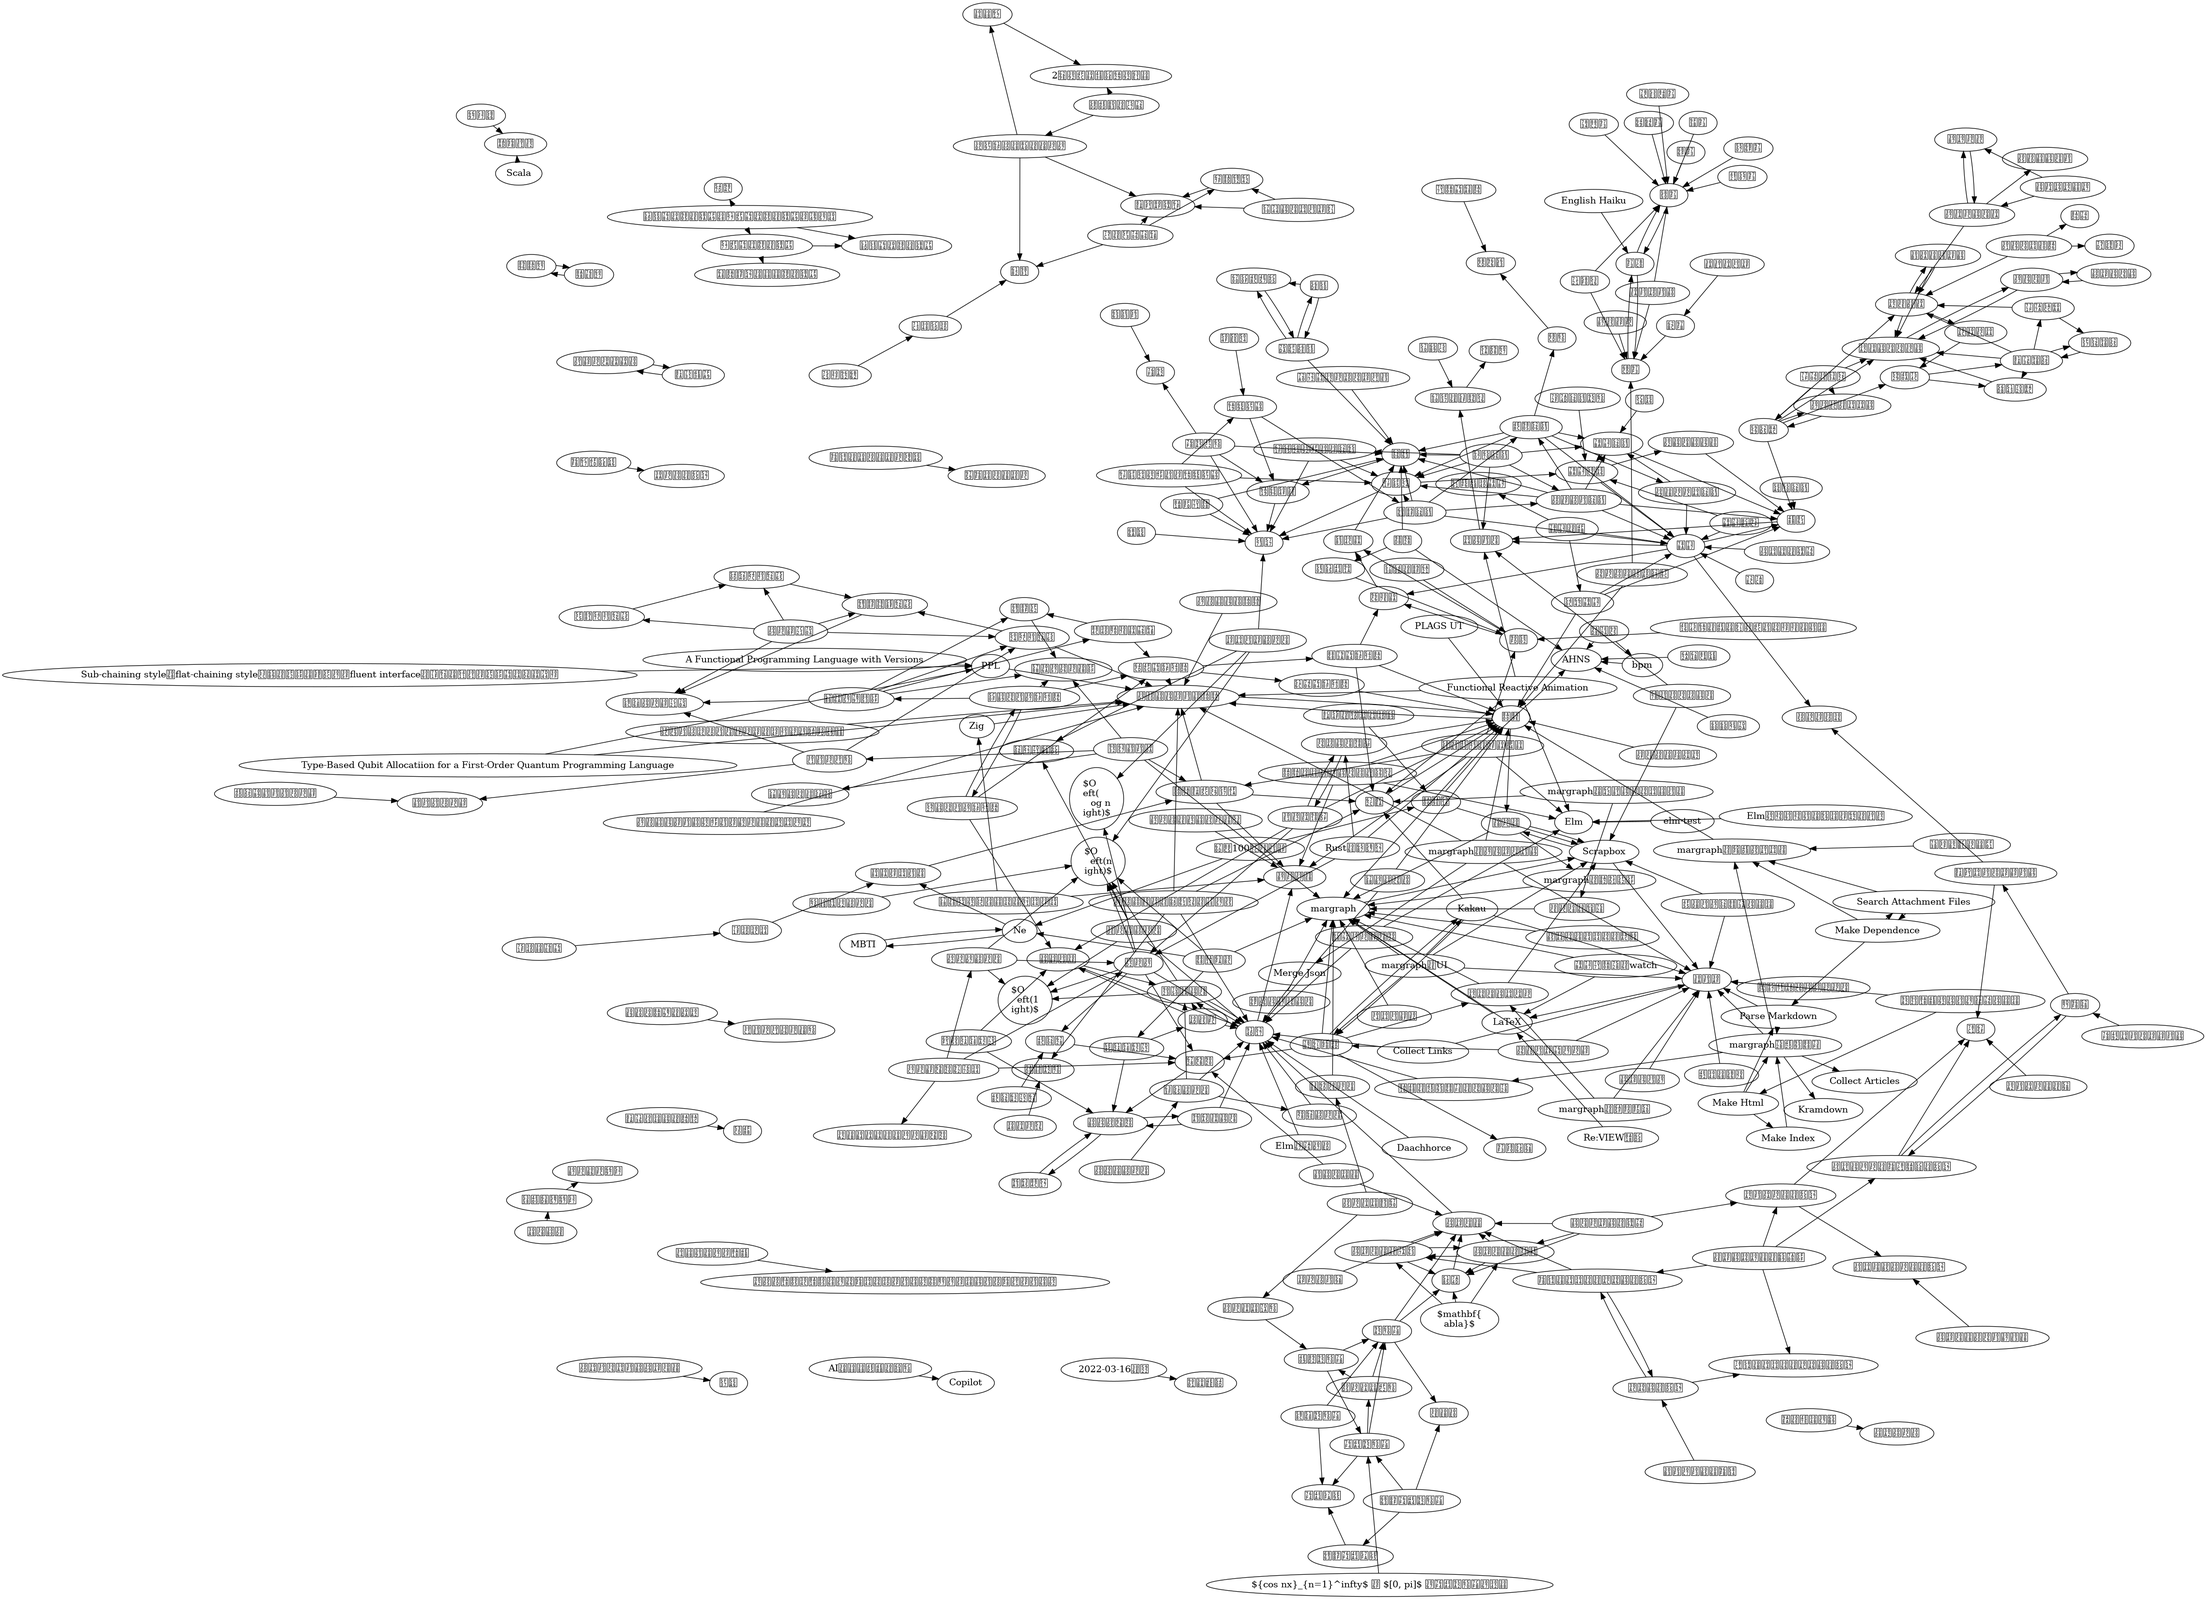
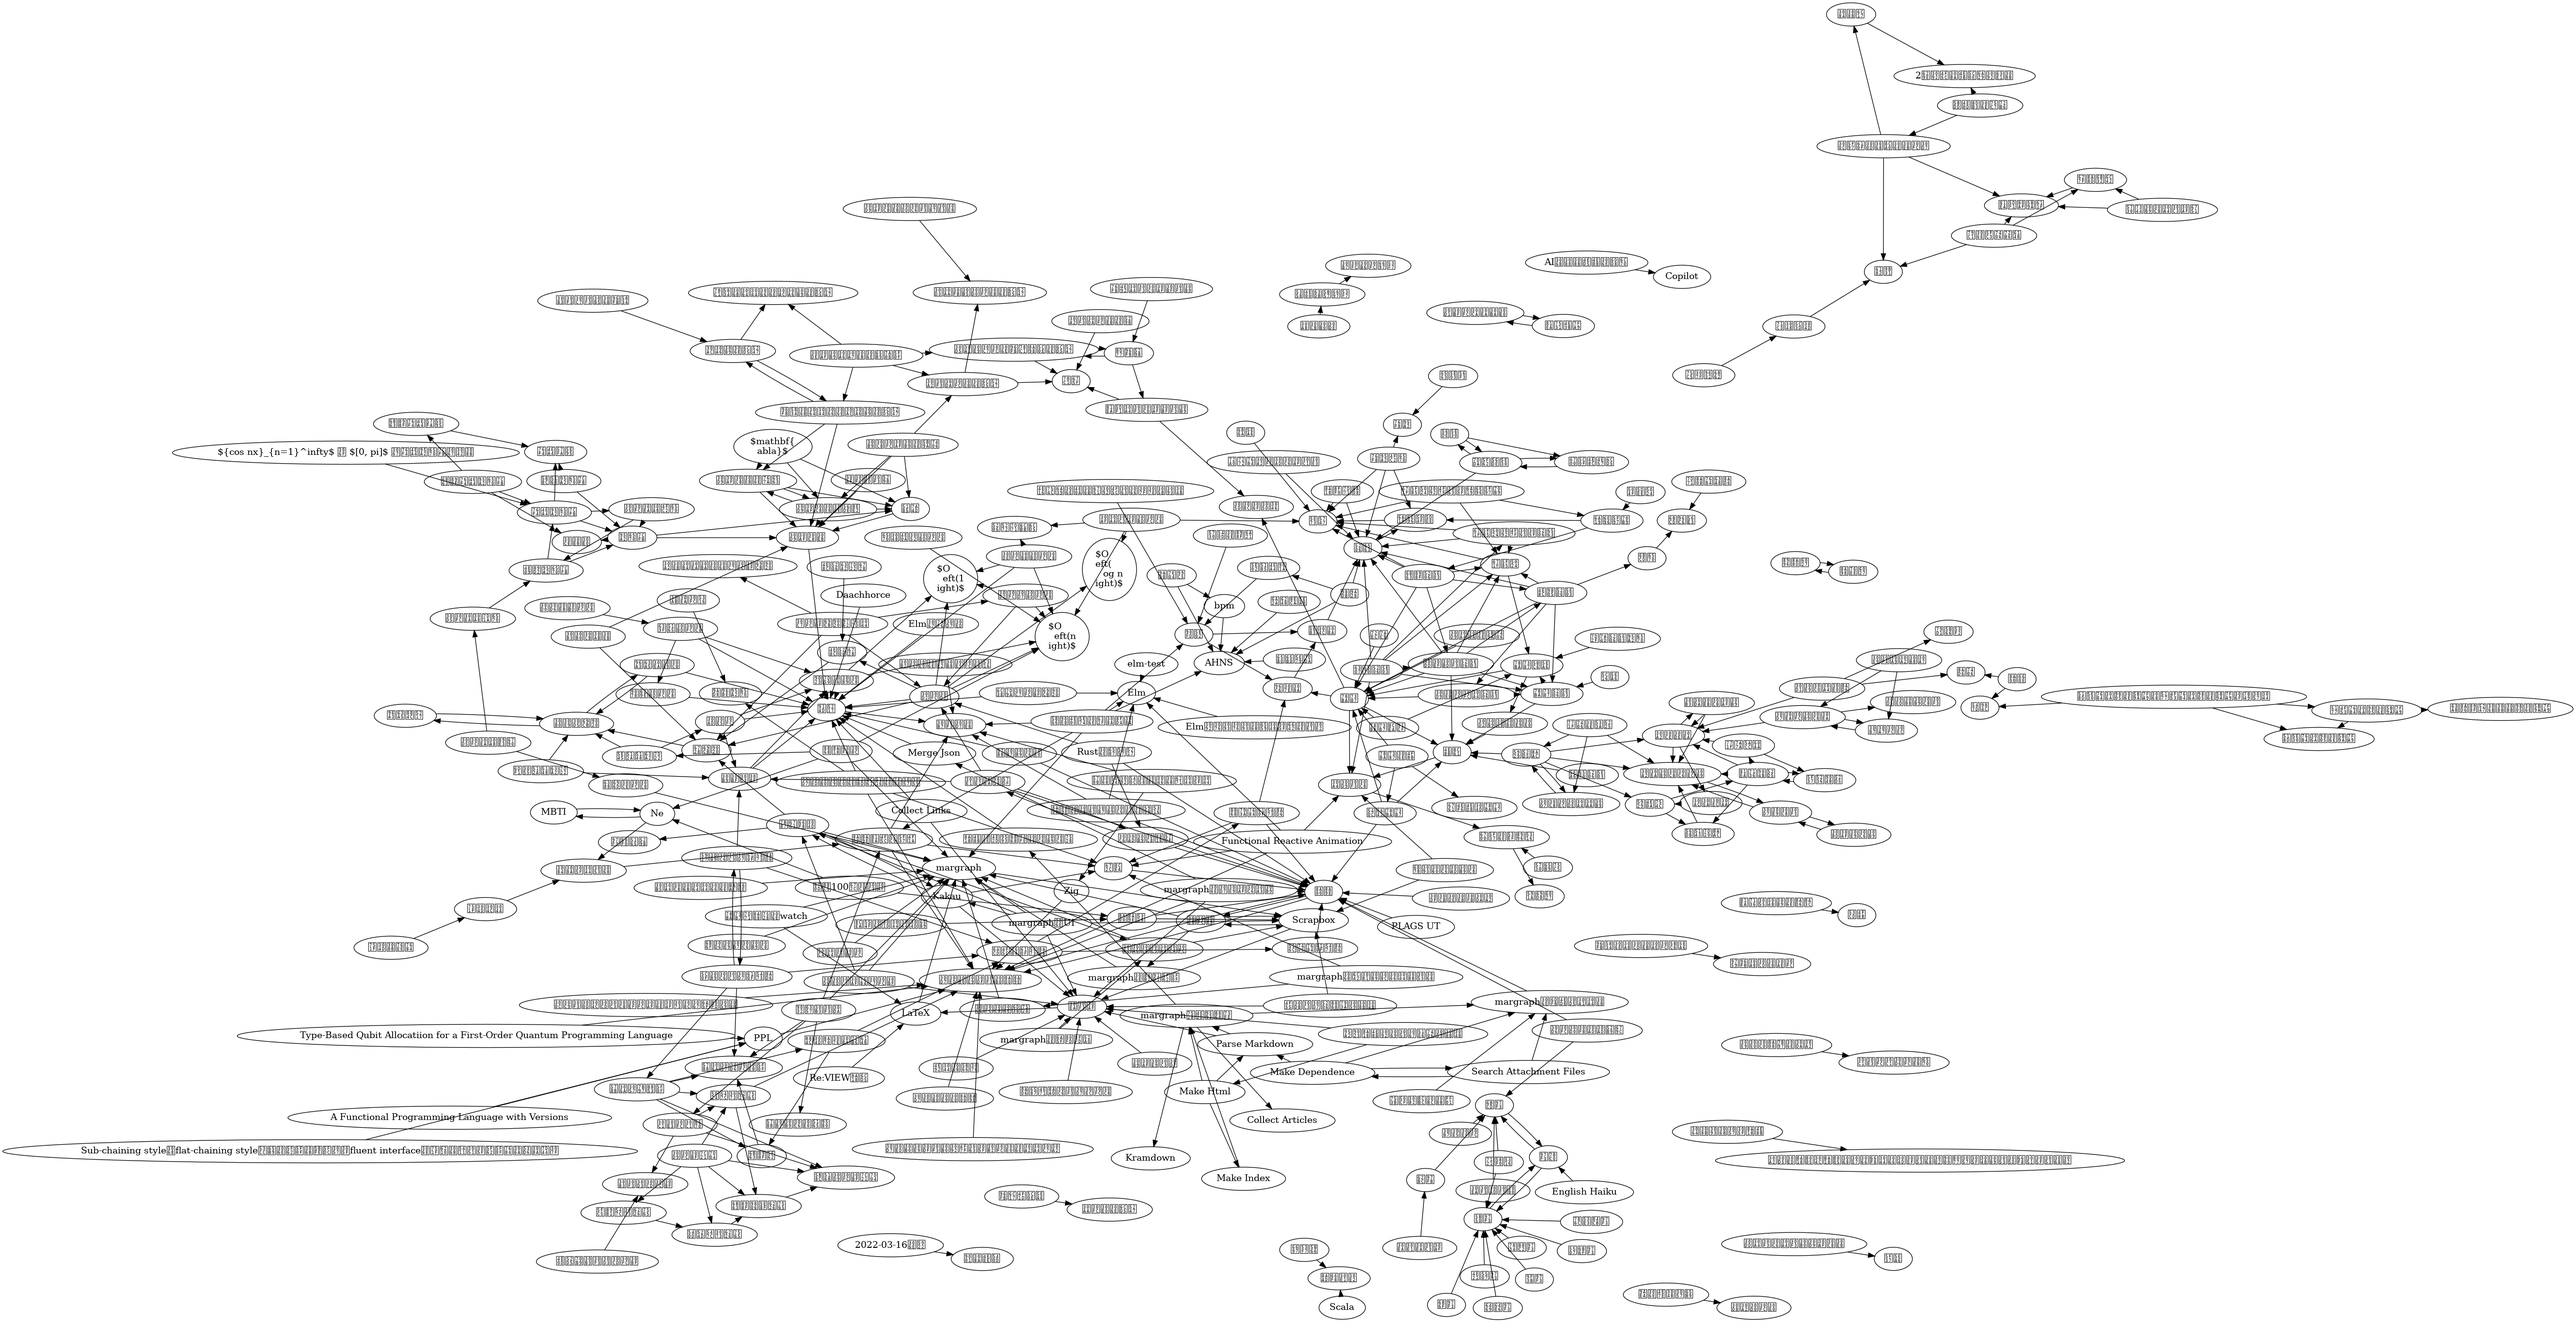
deploy: c0372975cf15fbdef8beef2fb63c11e4a7cda9fb

diff --git a/math/genmei.html b/math/genmei.html
@@ -7,7 +7,7 @@
     <link rel="stylesheet" href="https://cdn.jsdelivr.net/npm/bootstrap-dark-5@1.1.3/dist/css/bootstrap-nightfall.min.css" media="(prefers-color-scheme: dark)">
     <link rel="stylesheet" href="https://cdnjs.cloudflare.com/ajax/libs/highlight.js/11.3.1/styles/base16/ashes.min.css">
     <link rel="stylesheet" href="../style.css" type="text/css">
-    <title>単射</title>
+    <title>言明</title>
     <meta NAME="robots" CONTENT="noindex,nofollow">
   </head>
   <body>
@@ -20,24 +20,25 @@
           
             <li class="breadcrumb-item"><a href="../math/index.html">math</a></li>
           
-          <li class="breadcrumb-item">単射</li>
+          <li class="breadcrumb-item">言明</li>
         </ol>
       </div>
     </nav>
 
     <article class="container" style="max-width: 40em;">
 
-      <h1>単射</h1>
+      <h1>言明</h1>
 
       
         <div class="contents">
         
             
-              <div>$f$ が $a,a’ \in A$、$f(a)=f(‘a)$ なら $a=a’$ であるとき、$f$ は単射</div>
-            
-          
-            
-              <div>要するに関数に突っ込んで同じ値なら、もとの値も同じ、みたいな性質</div>
+              <div><ul>
+  <li><a href="../math/losistics.html">論理</a>学で真か偽か分かるもの</li>
+  <li>Coqとかでこの単語を使う</li>
+  <li><a href="../math/proposition.html">命題</a>・定理・補題・言明の意味をまとめたもの</li>
+</ul>
+</div>
             
           
         </div>
@@ -55,9 +56,6 @@
           <div class="row text-center">
             <div class="col">
               
-                前の記事<br />
-                <a href="../math/genmei.html">言明</a>
-              
             </div>
             <div class="col">
               
@@ -68,7 +66,7 @@
             <div class="col">
               
                 次の記事<br />
-                <a href="../math/losistics.html">論理</a>
+                <a href="../math/injection.html">単射</a>
               
             </div>
           </div>
@@ -77,13 +75,55 @@
 
       <div class="d-flex flex-row-reverse">
         
-          <button type="button" class="btn btn-outline-primary btn-sm" onclick="window.location.href='https://github.com/soukouki/margraph/edit/master/src/math/injection.md';">Edit</button>
+          <button type="button" class="btn btn-outline-primary btn-sm" onclick="window.location.href='https://github.com/soukouki/margraph/edit/master/src/math/genmei.md';">Edit</button>
         
         
       </div>
 
       
       <div class="link-network">
+        
+          <div class="row flex-nowrap overflow-auto">
+            <div class="col-4">
+              <div class="card h-100">
+                <div class="card-body">
+                  <h5 class="card-title fs-6"><a href="../math/losistics.html">論理</a></h5>
+                  <p class="card-text">- $A \land B$   - AかつB   - Aが成り...</p>
+                </div>
+              </div>
+            </div>
+            
+              <div class="col-4">
+                <div class="card h-100">
+                  <div class="card-body">
+                    <h5 class="card-title fs-6"><a href="../lectures/history-of-science/17-paradigm.html">パラダイム論</a></h5>
+                    <p class="card-text">科学史においてトーマス・クーンが提唱した概念 科学の歴史に現れ...</p>
+                  </div>
+                </div>
+              </div>
+            
+          </div>
+        
+          <div class="row flex-nowrap overflow-auto">
+            <div class="col-4">
+              <div class="card h-100">
+                <div class="card-body">
+                  <h5 class="card-title fs-6"><a href="../math/proposition.html">命題</a></h5>
+                  <p class="card-text">- 正しいか正しくないかが分かるもの...</p>
+                </div>
+              </div>
+            </div>
+            
+              <div class="col-4">
+                <div class="card h-100">
+                  <div class="card-body">
+                    <h5 class="card-title fs-6"><a href="../reading-note/tapl/03-04-defs-is-equal.html">再帰的な項の定義と具体的な項の定義は等しい</a></h5>
+                    <p class="card-text">命題3.2.6(再帰的な項の定義と具体的な項の定義は等しい)に...</p>
+                  </div>
+                </div>
+              </div>
+            
+          </div>
         
       </div>
       

diff --git a/math/proposition.html b/math/proposition.html
@@ -85,6 +85,27 @@
             <div class="col-4">
               <div class="card h-100">
                 <div class="card-body">
+                  <h5 class="card-title fs-6"><a href="../math/genmei.html">言明</a></h5>
+                  <p class="card-text">- 論理学で真か偽か分かるもの - Coqとかでこの単語を使う...</p>
+                </div>
+              </div>
+            </div>
+            
+              <div class="col-4">
+                <div class="card h-100">
+                  <div class="card-body">
+                    <h5 class="card-title fs-6"><a href="../math/losistics.html">論理</a></h5>
+                    <p class="card-text">- $A \land B$   - AかつB   - Aが成り...</p>
+                  </div>
+                </div>
+              </div>
+            
+          </div>
+        
+          <div class="row flex-nowrap overflow-auto">
+            <div class="col-4">
+              <div class="card h-100">
+                <div class="card-body">
                   <h5 class="card-title fs-6"><a href="../reading-note/tapl/03-04-defs-is-equal.html">再帰的な項の定義と具体的な項の定義は等しい</a></h5>
                   <p class="card-text">命題3.2.6(再帰的な項の定義と具体的な項の定義は等しい)に...</p>
                 </div>

diff --git a/math/losistics.html b/math/losistics.html
@@ -267,6 +267,27 @@
             
           </div>
         
+          <div class="row flex-nowrap overflow-auto">
+            <div class="col-4">
+              <div class="card h-100">
+                <div class="card-body">
+                  <h5 class="card-title fs-6"><a href="../math/genmei.html">言明</a></h5>
+                  <p class="card-text">- 論理学で真か偽か分かるもの - Coqとかでこの単語を使う...</p>
+                </div>
+              </div>
+            </div>
+            
+              <div class="col-4">
+                <div class="card h-100">
+                  <div class="card-body">
+                    <h5 class="card-title fs-6"><a href="../math/proposition.html">命題</a></h5>
+                    <p class="card-text">- 正しいか正しくないかが分かるもの...</p>
+                  </div>
+                </div>
+              </div>
+            
+          </div>
+        
       </div>
       
 

diff --git a/lectures/history-of-science/17-paradigm.html b/lectures/history-of-science/17-paradigm.html
@@ -121,6 +121,15 @@
               </div>
             </div>
             
+              <div class="col-4">
+                <div class="card h-100">
+                  <div class="card-body">
+                    <h5 class="card-title fs-6"><a href="../../math/genmei.html">言明</a></h5>
+                    <p class="card-text">- 論理学で真か偽か分かるもの - Coqとかでこの単語を使う...</p>
+                  </div>
+                </div>
+              </div>
+            
           </div>
         
           <div class="row flex-nowrap overflow-auto">

diff --git a/reading-note/tapl/03-04-defs-is-equal.html b/reading-note/tapl/03-04-defs-is-equal.html
@@ -159,6 +159,15 @@
               </div>
             </div>
             
+              <div class="col-4">
+                <div class="card h-100">
+                  <div class="card-body">
+                    <h5 class="card-title fs-6"><a href="../../math/genmei.html">言明</a></h5>
+                    <p class="card-text">- 論理学で真か偽か分かるもの - Coqとかでこの単語を使う...</p>
+                  </div>
+                </div>
+              </div>
+            
           </div>
         
           <div class="row flex-nowrap overflow-auto">

diff --git a/math/index.html b/math/index.html
@@ -50,6 +50,10 @@
         <div class="file-list list-group list-group-flush">
         
           <div class="list-group-item">
+            <a href="../math/genmei.html">言明</a>
+          </div>
+        
+          <div class="list-group-item">
             <a href="../math/injection.html">単射</a>
           </div>
         
